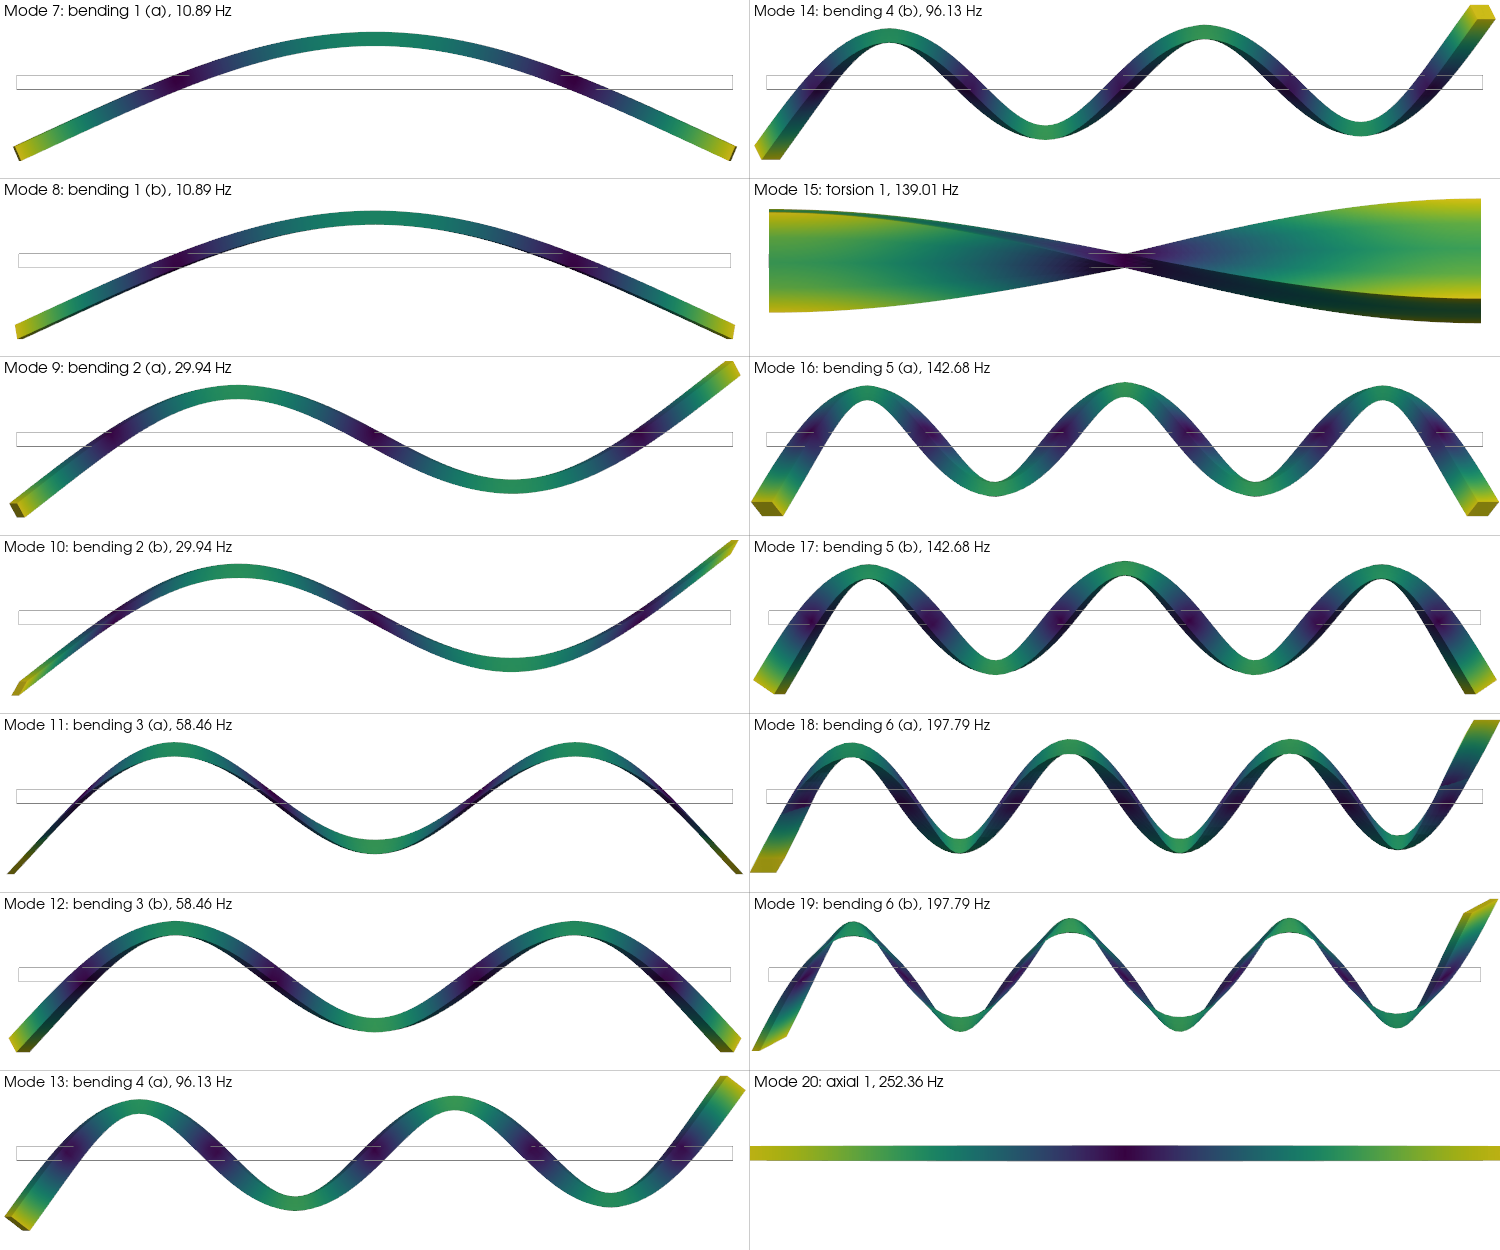
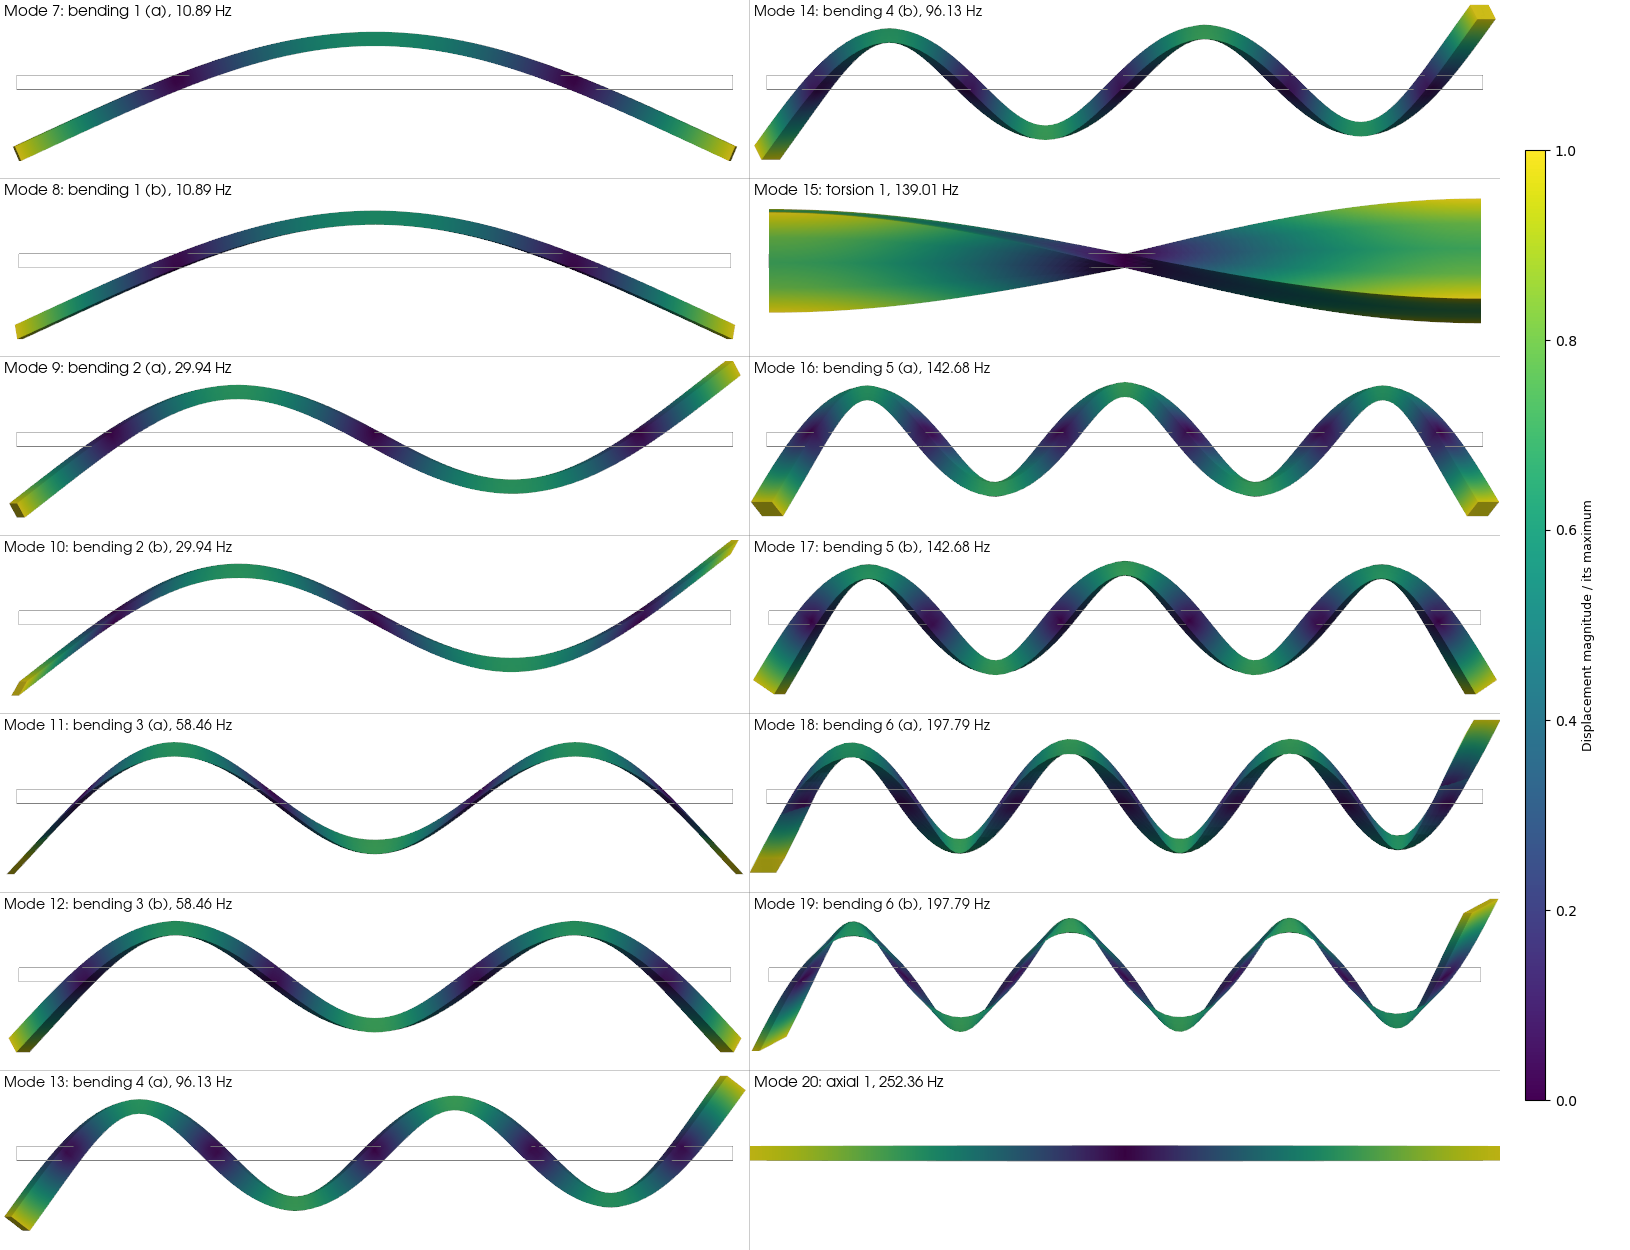
Add shared colorbar to the beam mode gallery and download links to the example scripts

diff --git a/src/docs/sphinx/advancedExamples/validationStudies/solidMechanics/FreeFreeBeamModes/make_beam_assets.py b/src/docs/sphinx/advancedExamples/validationStudies/solidMechanics/FreeFreeBeamModes/make_beam_assets.py
@@ -123,7 +123,7 @@ def main():
         shape.points = grid.points + scale * rotated
         shape['displacement'] = np.linalg.norm(rotated, axis=1) * scale
         pl.subplot(k % nrows, k // nrows)
-        pl.add_mesh(shape, scalars='displacement', cmap='viridis', show_scalar_bar=False)
+        pl.add_mesh(shape, scalars='displacement', cmap='viridis', clim=(0.0, 1.0), show_scalar_bar=False)
         pl.add_mesh(outline, color='gray', line_width=1)
         pl.view_xy()
         pl.camera.parallel_projection = True
@@ -131,7 +131,22 @@ def main():
         pl.camera.position = (0.5 * length, 0.0, 30.0)
         pl.camera.parallel_scale = 1.25
         pl.add_text(f'Mode {m}: {labels[k]}, {frequencies[6 + k]:.2f} Hz', font_size=8, position='upper_left')
-    pl.screenshot(args.outputDir + '/FreeFreeBeamModes.png')
+    gallery = pl.screenshot(return_img=True)
+
+    # One colorbar for all the panels: the displacement of each mode is normalized by its maximum
+    import matplotlib
+    matplotlib.use('Agg')
+    import matplotlib.pyplot as plt
+    height, width = gallery.shape[:2]
+    dpi = 100
+    fig = plt.figure(figsize=((width + 130) / dpi, height / dpi), dpi=dpi)
+    ax = fig.add_axes([0.0, 0.0, width / (width + 130), 1.0])
+    ax.imshow(gallery)
+    ax.axis('off')
+    cax = fig.add_axes([(width + 25) / (width + 130), 0.12, 20.0 / (width + 130), 0.76])
+    fig.colorbar(matplotlib.cm.ScalarMappable(norm=matplotlib.colors.Normalize(0.0, 1.0), cmap='viridis'), cax=cax)
+    cax.set_ylabel('Displacement magnitude / its maximum', fontsize=9)
+    fig.savefig(args.outputDir + '/FreeFreeBeamModes.png', dpi=dpi)
 
 
 if __name__ == "__main__":

diff --git a/src/docs/sphinx/advancedExamples/validationStudies/solidMechanics/FreeFreeBeamModes/Example.rst b/src/docs/sphinx/advancedExamples/validationStudies/solidMechanics/FreeFreeBeamModes/Example.rst
@@ -62,13 +62,17 @@ This example uses three GEOS xml files:
 
 The base file has the mesh, the material and the outputs.
 The two other files differ by the eigensolver settings.
-A Python script that gives the beam theory solutions and plots the comparison is provided at:
+The Python script that gives the beam theory solutions and plots the comparison is
+:download:`FreeFreeBeamModes_vs_EulerBernoulli.py <FreeFreeBeamModes_vs_EulerBernoulli.py>`.
+It reads the beam parameters from the GEOS xml files and the GEOS results from the two text files of this folder.
+Its location in the repository is:
 
 .. code-block:: console
 
   src/docs/sphinx/advancedExamples/validationStudies/solidMechanics/FreeFreeBeamModes/FreeFreeBeamModes_vs_EulerBernoulli.py
 
-The script ``make_beam_assets.py`` in the same folder generates the images and the table of this page from a GEOS run.
+The script :download:`make_beam_assets.py <make_beam_assets.py>` generates the images and the table of this page from a GEOS run.
+The text files are :download:`FreeFreeBeamFrequencies.txt <FreeFreeBeamFrequencies.txt>`, :download:`FreeFreeBeamModeShapes.txt <FreeFreeBeamModeShapes.txt>` and :download:`FreeFreeBeamModeTable.csv <FreeFreeBeamModeTable.csv>`.
 
 ------------------------------------------------------------------
 Mesh
@@ -145,6 +149,7 @@ Each GEOS bending value is the mean of a pair of modes.
 The two other plots compare the mass-normalized shapes of the first four bending modes.
 The polarization of a bending mode in the plane of the cross-section is arbitrary.
 The script projects each computed mode on the beam theory shape.
+The script is :download:`FreeFreeBeamModes_vs_EulerBernoulli.py <FreeFreeBeamModes_vs_EulerBernoulli.py>`.
 
 .. plot:: docs/sphinx/advancedExamples/validationStudies/solidMechanics/FreeFreeBeamModes/FreeFreeBeamModes_vs_EulerBernoulli.py
 
@@ -161,7 +166,7 @@ The six rigid-body modes are zero up to rounding errors: their frequencies are b
 The next fourteen modes are the elastic modes.
 The images below show them, scaled so that the largest displacement is 1 m.
 The grey rectangle is the undeformed beam.
-The color is the displacement magnitude.
+The color is the displacement magnitude divided by its maximum for the mode, with one colorbar for all the images.
 The bending modes of a pair have the same shape in two perpendicular planes.
 The image shows each of them rotated into the plane of the view.
 

diff --git a/src/docs/sphinx/advancedExamples/validationStudies/solidMechanics/EigensolverComparison/Example.rst b/src/docs/sphinx/advancedExamples/validationStudies/solidMechanics/EigensolverComparison/Example.rst
@@ -35,9 +35,10 @@ The block uses two GEOS xml files that differ by the eigensolver:
 
 The beam uses the files of the example :ref:`AdvancedExampleFreeFreeBeamModes`.
 The other combinations are obtained by changing the attributes ``modalSolverType`` and ``modalDeflateRigidBodyModes``.
-The script ``run_comparison.sh`` in the folder of this example makes all the runs.
-The script ``summarize_comparison.py`` writes the table and the convergence histories from the logs.
-The script ``EigensolverComparison.py`` makes the figure.
+The script :download:`run_comparison.sh <run_comparison.sh>` makes all the runs.
+The script :download:`summarize_comparison.py <summarize_comparison.py>` writes the table and the convergence histories from the logs.
+The script :download:`EigensolverComparison.py <EigensolverComparison.py>` makes the figure.
+The results are in :download:`EigensolverComparison.csv <EigensolverComparison.csv>` and :download:`ConvergenceHistory.txt <ConvergenceHistory.txt>`.
 
 ------------------------------------------------------------------
 Solver
